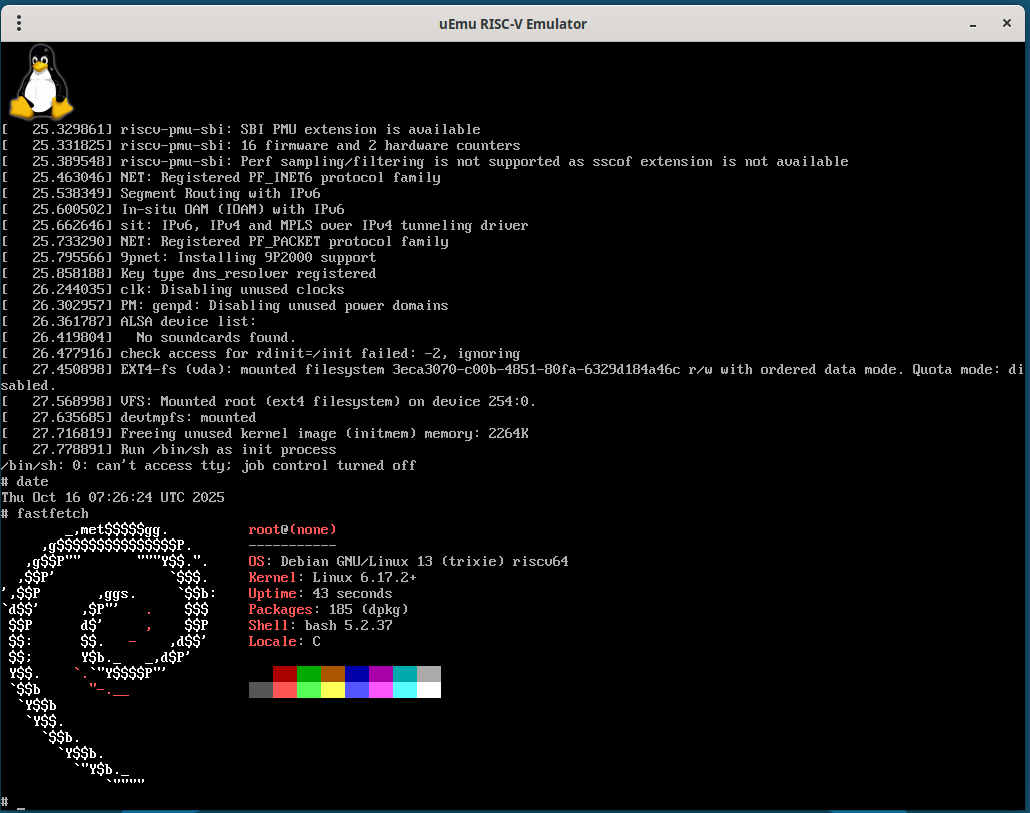
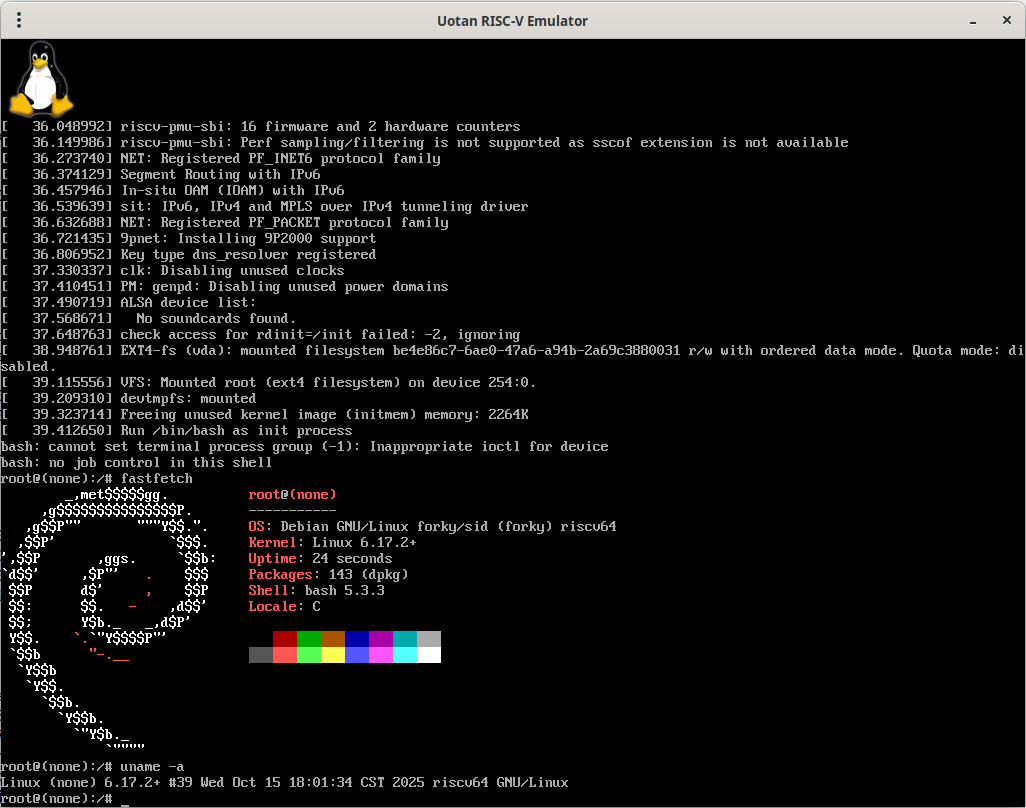
uemu: software: Update screenshot

Changed region(s): [[0.0, 0.0, 1.0, 1.0], [0.5614, 0.6498, 0.5926, 0.6807], [0.5614, 0.526, 0.5926, 0.5569]]

diff --git a/README.md b/README.md
@@ -3,7 +3,7 @@
 **Uotan Emulator** (*uemu*) is a small system emulator that boots real firmware and OS images (OpenSBI, U-Boot, Linux) and runs raw/ELF test binaries. Implemented ISA: **rv64imafdc_zicsr_zifencei**.
 
 ## Boot Demo
-### Debian Trixie without systemd :(
+### Debian Forky without systemd :(
 ![Booting Linux on uemu](./software/linux.png)
 
 ## Quick facts
